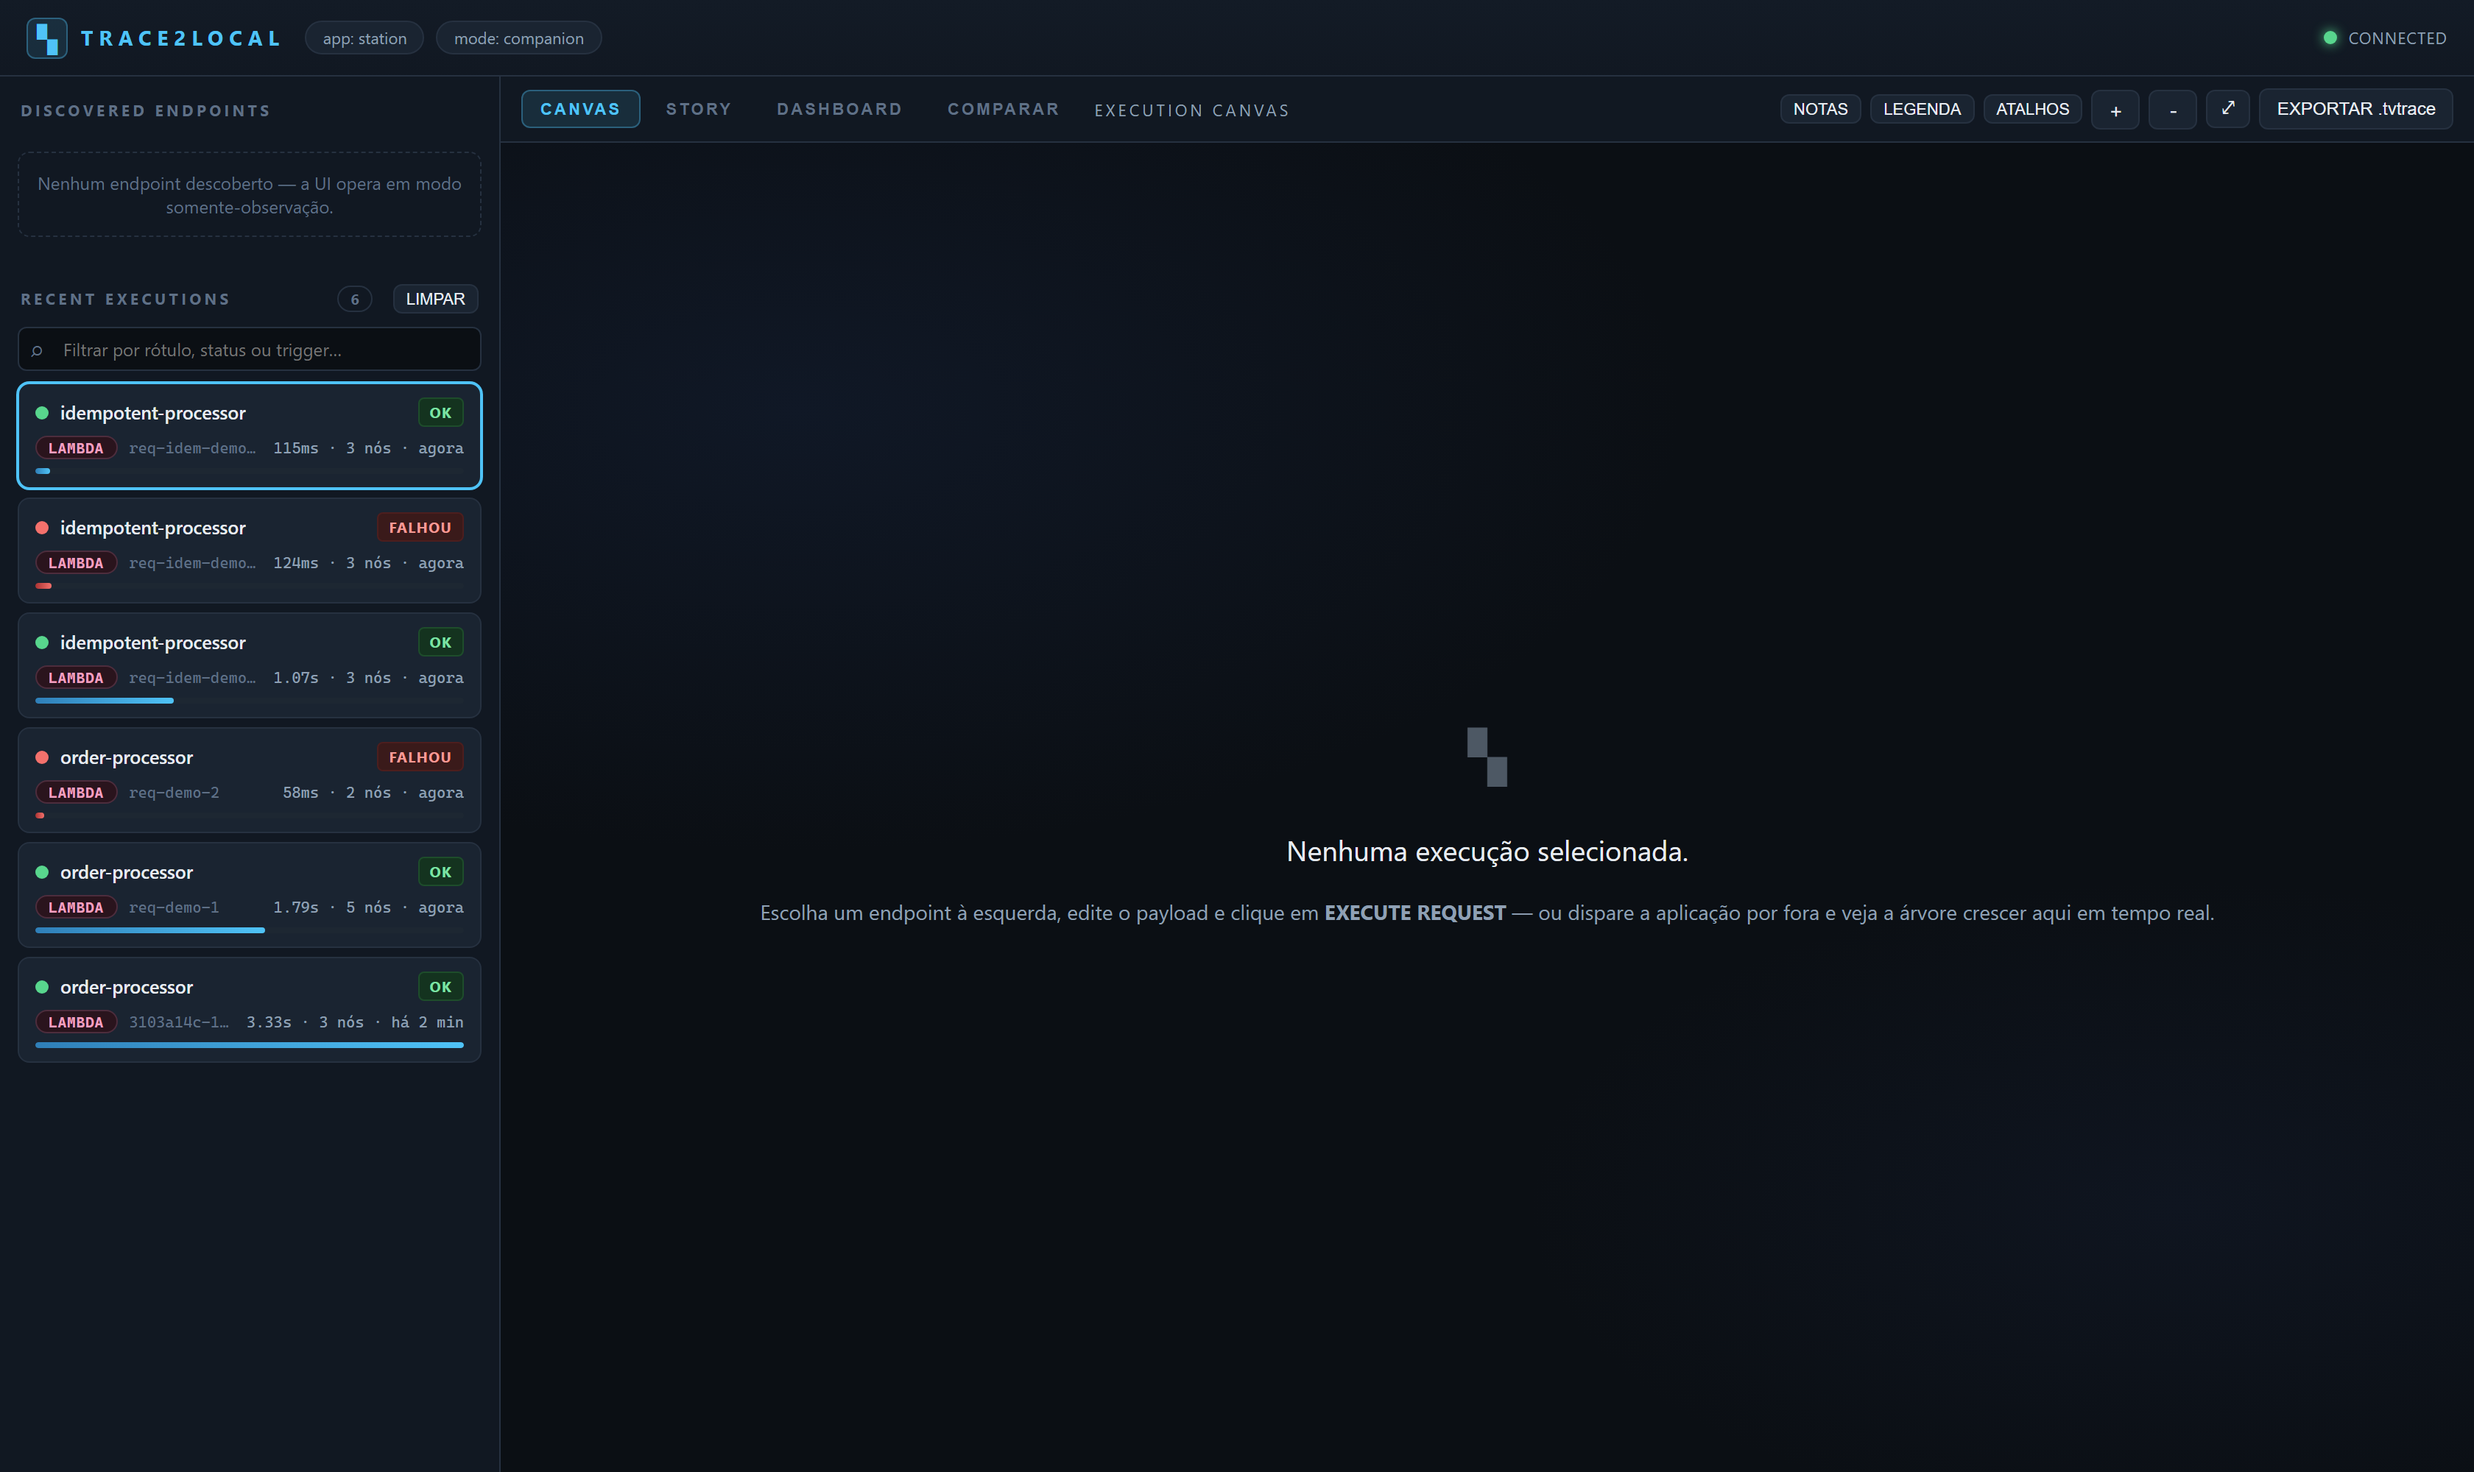
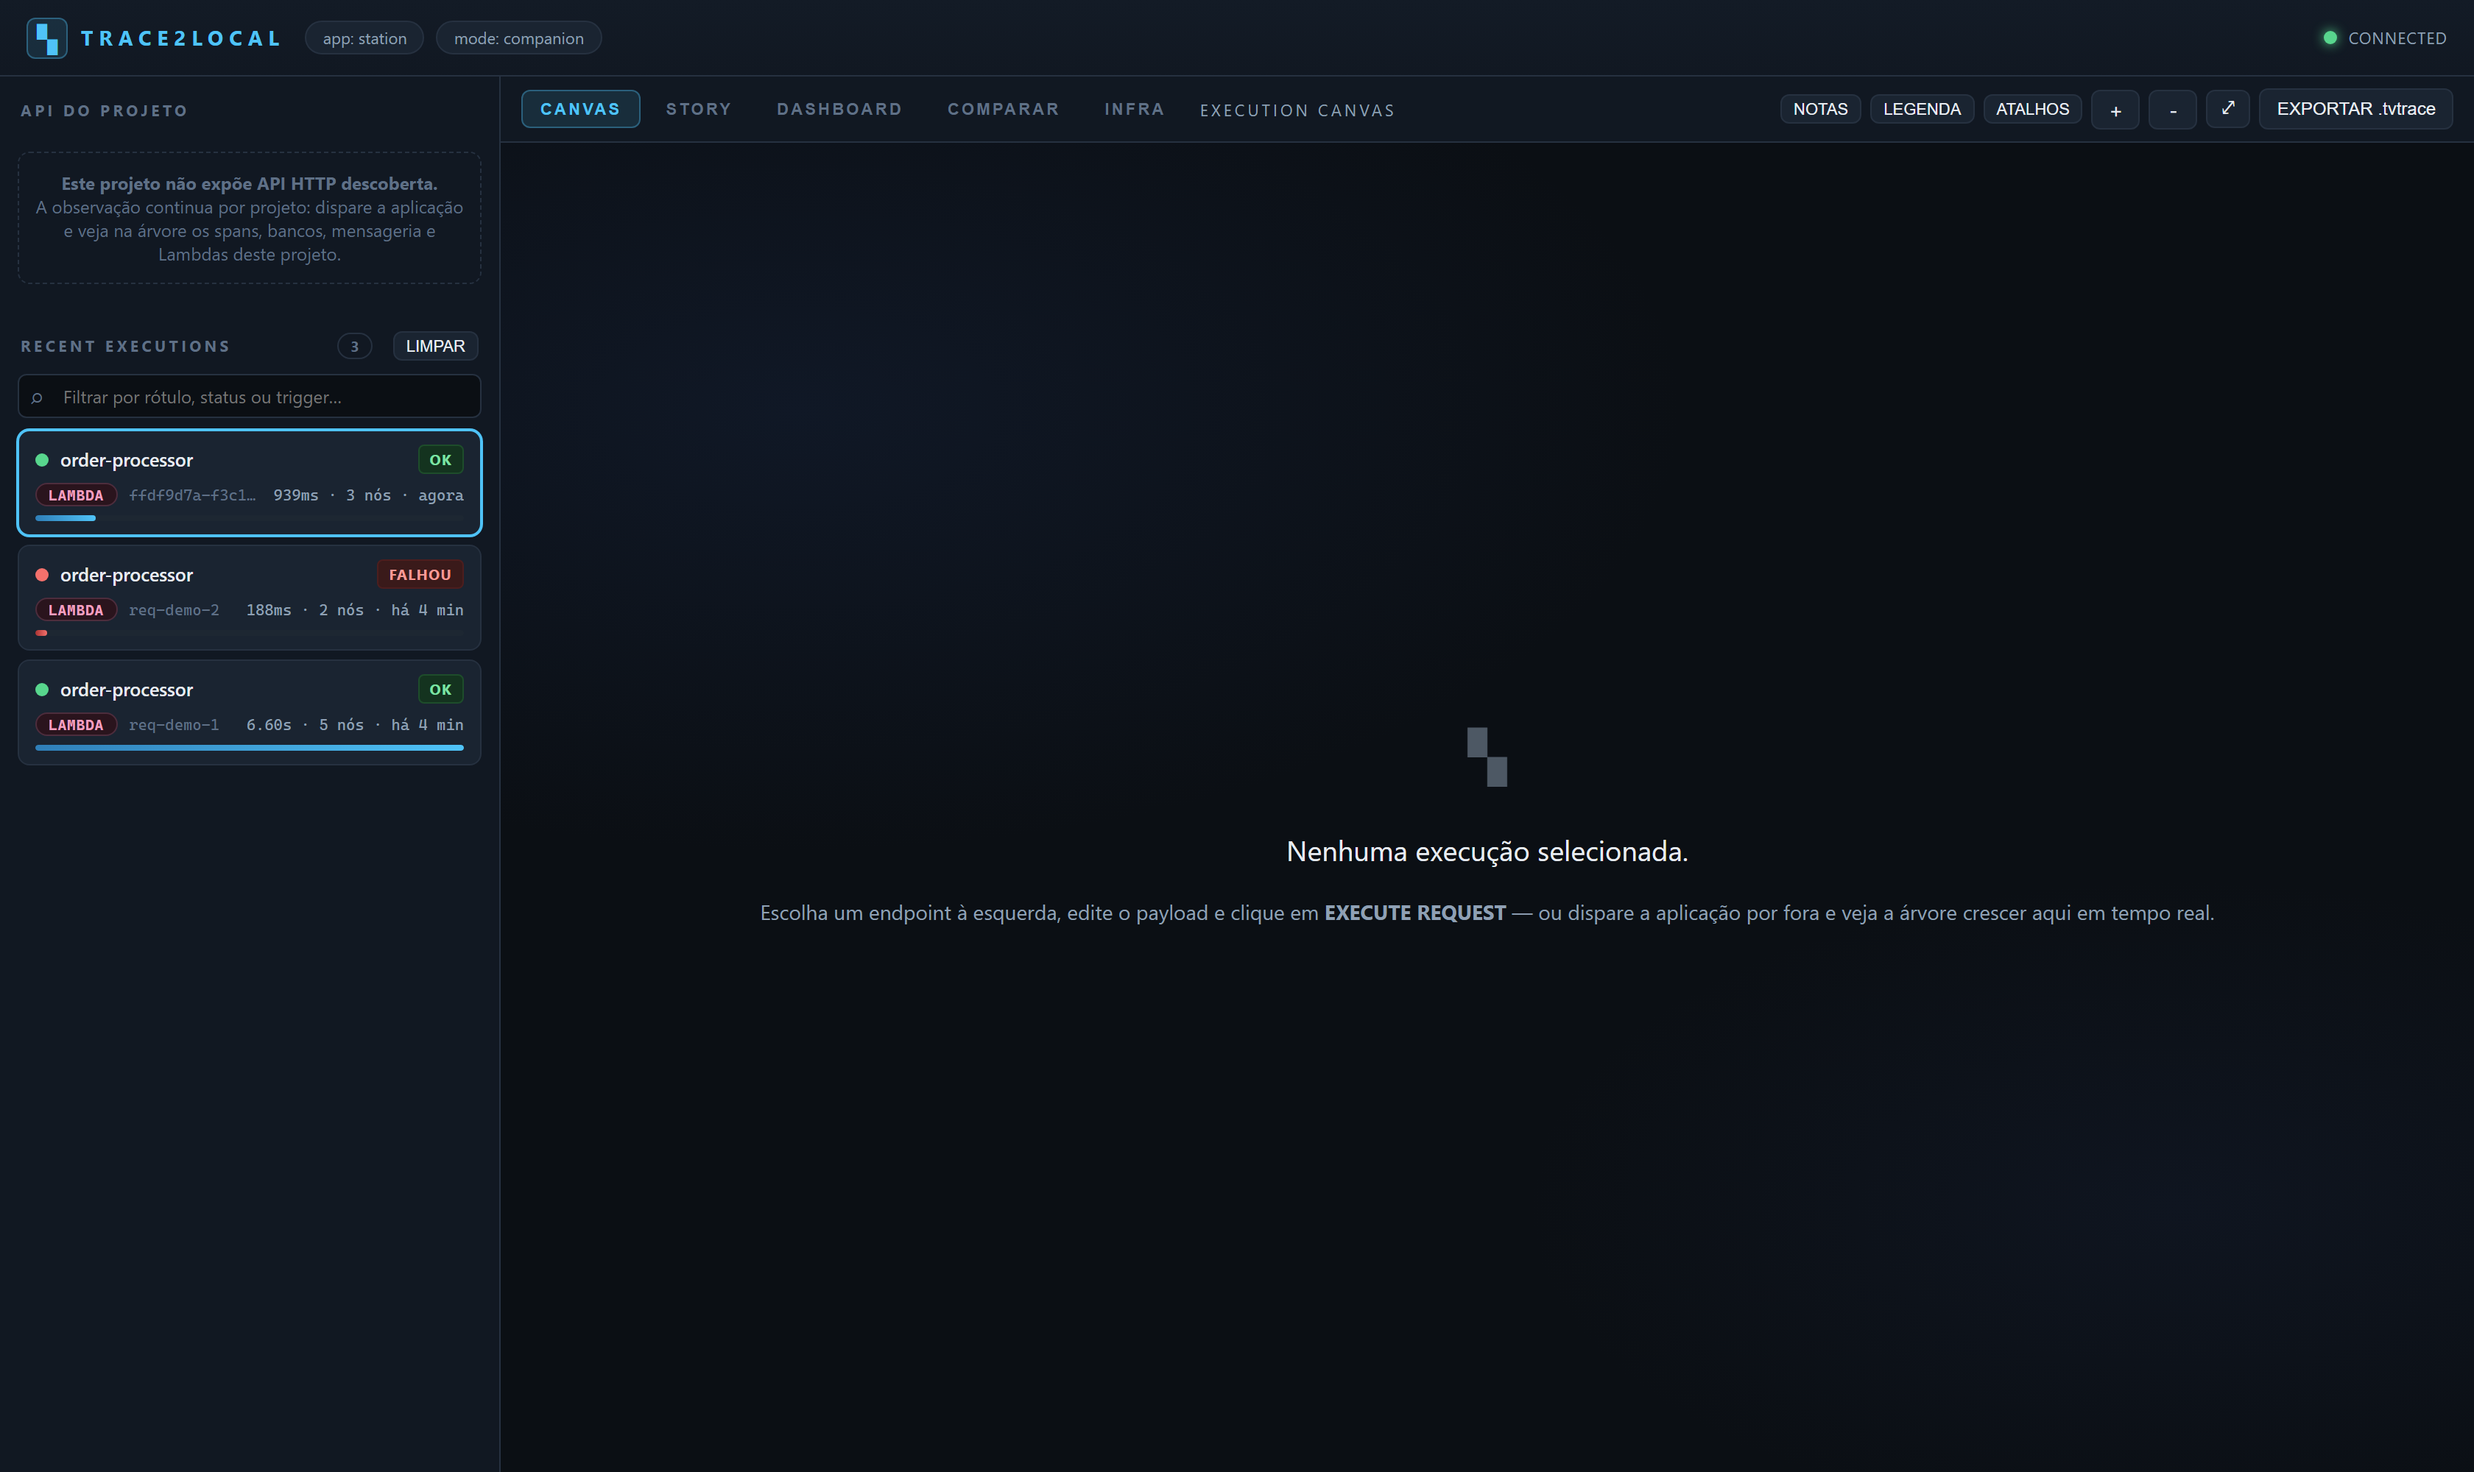
UI por projeto: API DO PROJETO com o nome do app; sem API, aviso em escopo de projeto
Substitui a mensagem generica 'Nenhum endpoint descoberto — a UI opera em modo somente-observação' por um enquadramento POR PROJETO: o cabecalho da sidebar vira API DO PROJETO com pill do nome do app importador (ex.: payment-service; oculta em station/?); sem API HTTP, o aviso diz que o projeto nao expoe API e que a observacao continua por projeto (spans, bancos, mensageria, Lambdas).

Validacao: captures station (:19877) e payment (:9876) verdes — projectScopedNoApi=true e projectPill=payment-service; UiOfflineTest verde; evidencias atualizadas (EVIDENCIA-UX v7, CHANGELOG); smoke.sh para repopular o station apos recreate.

diff --git a/trace2local-ui/src/main/resources/META-INF/resources/trace2local/app.js b/trace2local-ui/src/main/resources/META-INF/resources/trace2local/app.js
@@ -75,6 +75,11 @@ async function loadMeta() {
     $("env-app").textContent = "app: " + (state.meta.app || "?");
     $("env-mode").textContent = "mode: " + (state.meta.mode || "?");
     document.title = "Trace2Local — " + (state.meta.app || "");
+    // identidade do PROJETO no cabeçalho da seção de API
+    if (state.meta.app && state.meta.app !== "station" && state.meta.app !== "?") {
+      $("endpoints-app").textContent = state.meta.app;
+      $("endpoints-app").classList.remove("hidden");
+    }
   } catch (e) {
     $("env-app").textContent = "app: offline";
   }
@@ -153,7 +158,16 @@ function renderEndpoints() {
   const container = $("endpoints");
   container.innerHTML = "";
   if (!state.endpoints.length) {
-    container.innerHTML = '<p class="sidebar-note">Nenhum endpoint descoberto — a UI opera em modo somente-observação.</p>';
+    const app = state.meta && state.meta.app
+      && state.meta.app !== "station" && state.meta.app !== "?" ? state.meta.app : null;
+    // por projeto: sem API HTTP, avisa em escopo de PROJETO (não um modo genérico)
+    container.innerHTML = app
+      ? '<p class="sidebar-note"><strong>O projeto ' + esc(app) + " não expõe API HTTP descoberta.</strong><br>" +
+        "A observação continua por projeto: dispare a aplicação e veja na árvore os spans, " +
+        "bancos, mensageria e Lambdas deste projeto.</p>"
+      : '<p class="sidebar-note"><strong>Este projeto não expõe API HTTP descoberta.</strong><br>' +
+        "A observação continua por projeto: dispare a aplicação e veja na árvore os spans, " +
+        "bancos, mensageria e Lambdas deste projeto.</p>";
     return;
   }
   for (const ep of state.endpoints) {

diff --git a/trace2local-ui/src/main/resources/META-INF/resources/trace2local/index.html b/trace2local-ui/src/main/resources/META-INF/resources/trace2local/index.html
@@ -28,7 +28,7 @@
   <div id="layout">
     <aside id="sidebar">
       <section id="endpoints-section">
-        <h2>DISCOVERED ENDPOINTS</h2>
+        <h2>API DO PROJETO <span id="endpoints-app" class="pill hidden"></span></h2>
         <div id="endpoints" class="list" role="list" aria-label="Endpoints descobertos"></div>
       </section>
       <section id="recent-section">

diff --git a/docs/qa/EVIDENCIA-UX.md b/docs/qa/EVIDENCIA-UX.md
@@ -4,6 +4,37 @@
 > Restrições respeitadas: **ADR-005** (zero referência externa — `UiOfflineTest` verde)
 > e **CSP `default-src 'self'; style-src 'self'; script-src 'self'`** (zero estilo/script inline).
 
+## v7 — Enquadramento POR PROJETO (API do projeto no lugar de "modo observação")
+
+**Objetivo**: o Trace2Local roda localmente DENTRO de um projeto principal —
+a UI deve falar daquele projeto, não de um agregado genérico de vários.
+
+**O que mudou**:
+- O cabeçalho da seção de endpoints virou **`API DO PROJETO`** com uma
+  **pill do nome do app** (`#endpoints-app`) — em modo embedded é o
+  `spring.application.name` do projeto importador (ex.: `payment-service`);
+  a pill fica oculta quando o nome é `station`/`?` (companion/desconhecido).
+- O estado vazio deixou de ser "**a UI opera em modo somente-observação**"
+  (frase genérica de ferramenta) e passou a ser um **aviso em escopo de
+  projeto**: *"O projeto `<nome>` não expõe API HTTP descoberta. A observação
+  continua por projeto: dispare a aplicação e veja na árvore os spans, bancos,
+  mensageria e Lambdas deste projeto."* — sem API, a ferramenta só avisa que
+  o projeto não possui API; spans/bancos/mensageria/Lambdas seguem observados.
+- Fallback seguro: se o meta ainda não chegou (boot) ou o nome for
+  `station`/`?`, o aviso usa "**Este projeto** não expõe API HTTP descoberta."
+
+**Validação (scripts de captura estendidos, rodadas ao vivo)**:
+```
+payment (embedded, :9876): SIMPLICIDADE projectPill="payment-service" ✓
+                           → RESULTADO: TODAS AS VALIDAÇÕES PASSARAM ✓
+station (companion, :19877): UX v2 projectScopedNoApi=true ✓
+                             (nota "não expõe API HTTP descoberta" presente;
+                             "somente-observação" ausente — checagem DOM)
+                             → UX v2/v3/v4: todas as checagens passaram ✓
+```
+Gates: `UiOfflineTest` verde (ADR-005) + consistência UI↔API preservada
+(3 árvores: 3/2/5 nós, labels idênticos).
+
 ## v6 — Ações de detalhamento de INFRA/DEVOPS (UX revisada)
 
 **Objetivo**: botões/links que detalham ONDE cada URL, variável e recurso vive

diff --git a/CHANGELOG.md b/CHANGELOG.md
@@ -5,6 +5,12 @@ Formato: [Keep a Changelog](https://keepachangelog.com/pt-BR/1.1.0/) · Versiona
 
 ## [0.1.0-SNAPSHOT] — em desenvolvimento
 
+### UI por projeto (API DO PROJETO)
+
+- O Trace2Local roda localmente no contexto de UM projeto principal: a seção de endpoints da sidebar virou **API DO PROJETO** com pill do nome do app importador (ex.: `payment-service`, via `spring.application.name`; oculta no modo station).
+- Fim da frase genérica "a UI opera em modo somente-observação": sem API HTTP, o aviso agora é **por projeto** — *"O projeto X não expõe API HTTP descoberta. A observação continua por projeto…"* (spans/bancos/mensageria/Lambdas seguem observados); fallback "Este projeto…" quando o nome ainda não chegou ou é `station`/`?`.
+- Validação nos scripts de captura: `projectPill === "payment-service"` (payment) e nota de projeto sem "somente-observação" (station) + `UiOfflineTest` verde.
+
 ### Ações de detalhamento de INFRA/DEVOPS (aba INFRA)
 
 - **`InfraIndexer`** (server): engenharia reversa dos arquivos de infra — `*.tf` (recursos AWS + URLs/ARNs), `docker-compose*.yml`, `.env*` e `application*.yml` — cataloga URLs, ARNs, variáveis de ambiente e recursos Terraform com a **fonte exata (arquivo:linha)**; valores de chaves sensíveis são mascarados com `[OCULTO]` (critério do Redactor, ADR-007).

diff --git a/examples/lambda-sqs/README.md b/examples/lambda-sqs/README.md
@@ -74,6 +74,17 @@ O Station do compose roda com **token de ingest** (`TRACE2LOCAL_STATION_TOKEN=de
 no Station e na função): OTLP e mutações exigem `Authorization: Bearer devtoken`
 — a Lambda e o DemoRun enviam automaticamente (ADR-007/§8.1).
 
+Se o container do Station for recriado (estado em memória zerado), repopule com o
+`LambdaSqsDemoRun` (acima) e re-rogue a **invocação de fumaça** do init com o
+script `scripts/smoke.sh` (mesma lógica do init, com retry):
+
+```sh
+docker run --rm --entrypoint /bin/sh --network lambda-sqs_default \
+  -e AWS_ACCESS_KEY_ID=test -e AWS_SECRET_ACCESS_KEY=test -e AWS_DEFAULT_REGION=us-east-1 \
+  -v "$PWD/examples/lambda-sqs/scripts/smoke.sh:/smoke.sh:ro" \
+  amazon/aws-cli:2.22.0 /smoke.sh
+```
+
 ## Detalhes de implementação
 
 - **Endpoint do LocalStack** (dentro da função): cascata `localstack.endpoint`
